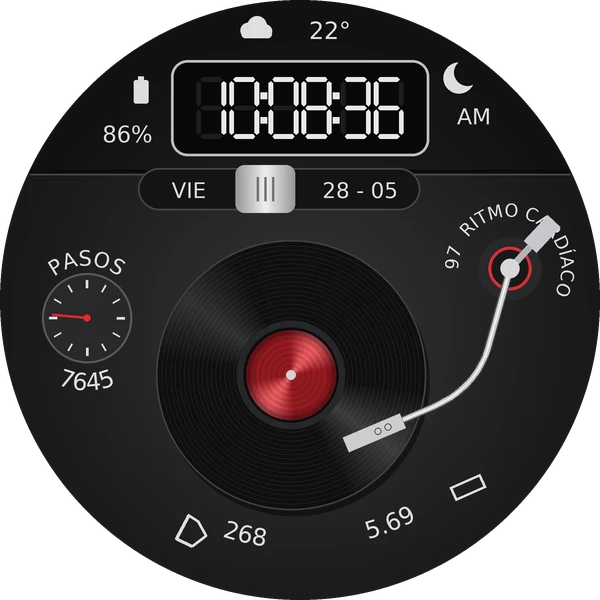
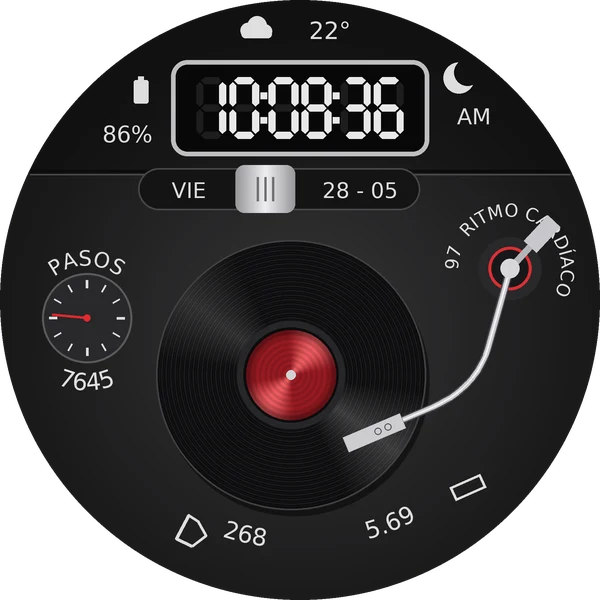
Vinilo: números de la hora y borde de la pantalla más gruesos, como la foto
Claude-Session: https://claude.ai/code/session_01RTdv2VrACuR4VFWJLA57hx

Changed region(s): [[0.3, 0.09, 0.72, 0.27], [0.27, 0.12, 0.3, 0.24]]

diff --git a/android/esferas-de-reloj/vinilo/src/main/java/cl/carlospnauto/esfera/FaceService.kt b/android/esferas-de-reloj/vinilo/src/main/java/cl/carlospnauto/esfera/FaceService.kt
@@ -391,7 +391,7 @@ class VinylRenderer(
         fill.color = Color.rgb(8, 8, 9)
         canvas.drawRoundRect(box, r * 0.055f, r * 0.055f, fill)
         stroke.color = Color.rgb(190, 190, 192)
-        stroke.strokeWidth = r * 0.009f
+        stroke.strokeWidth = r * 0.016f
         canvas.drawRoundRect(box, r * 0.055f, r * 0.055f, stroke)
         val h = if (is24) "%02d".format(t.hour) else (if (t.hour % 12 == 0) 12 else t.hour % 12).toString().padStart(2, ' ')
         val m = "%02d".format(t.minute)
@@ -425,8 +425,8 @@ class VinylRenderer(
 
     /** Un número de 7 segmentos finos (como la foto), con los segmentos apagados apenas visibles */
     private fun seg(canvas: Canvas, ch: Char, x: Float, y: Float, w: Float, h: Float, on: Int, ghost: Int) {
-        val t = w * 0.15f
-        val g = t * 0.35f
+        val t = w * 0.23f
+        val g = t * 0.22f
         val m = y + h / 2
         val l = x + t / 2
         val rr = x + w - t / 2
@@ -690,7 +690,7 @@ class VinylRenderer(
         fill.color = Color.rgb(8, 8, 9)
         canvas.drawRoundRect(box, r * 0.08f, r * 0.08f, fill)
         stroke.color = Color.rgb(190, 190, 192)
-        stroke.strokeWidth = r * 0.009f
+        stroke.strokeWidth = r * 0.016f
         canvas.drawRoundRect(box, r * 0.08f, r * 0.08f, stroke)
         // Reproductor, batería y hora
         val app = if (PhoneNow.state?.from == "cl.carlospnauto.app") "PULSOMEDIA" else "PULSOMUSIC"
